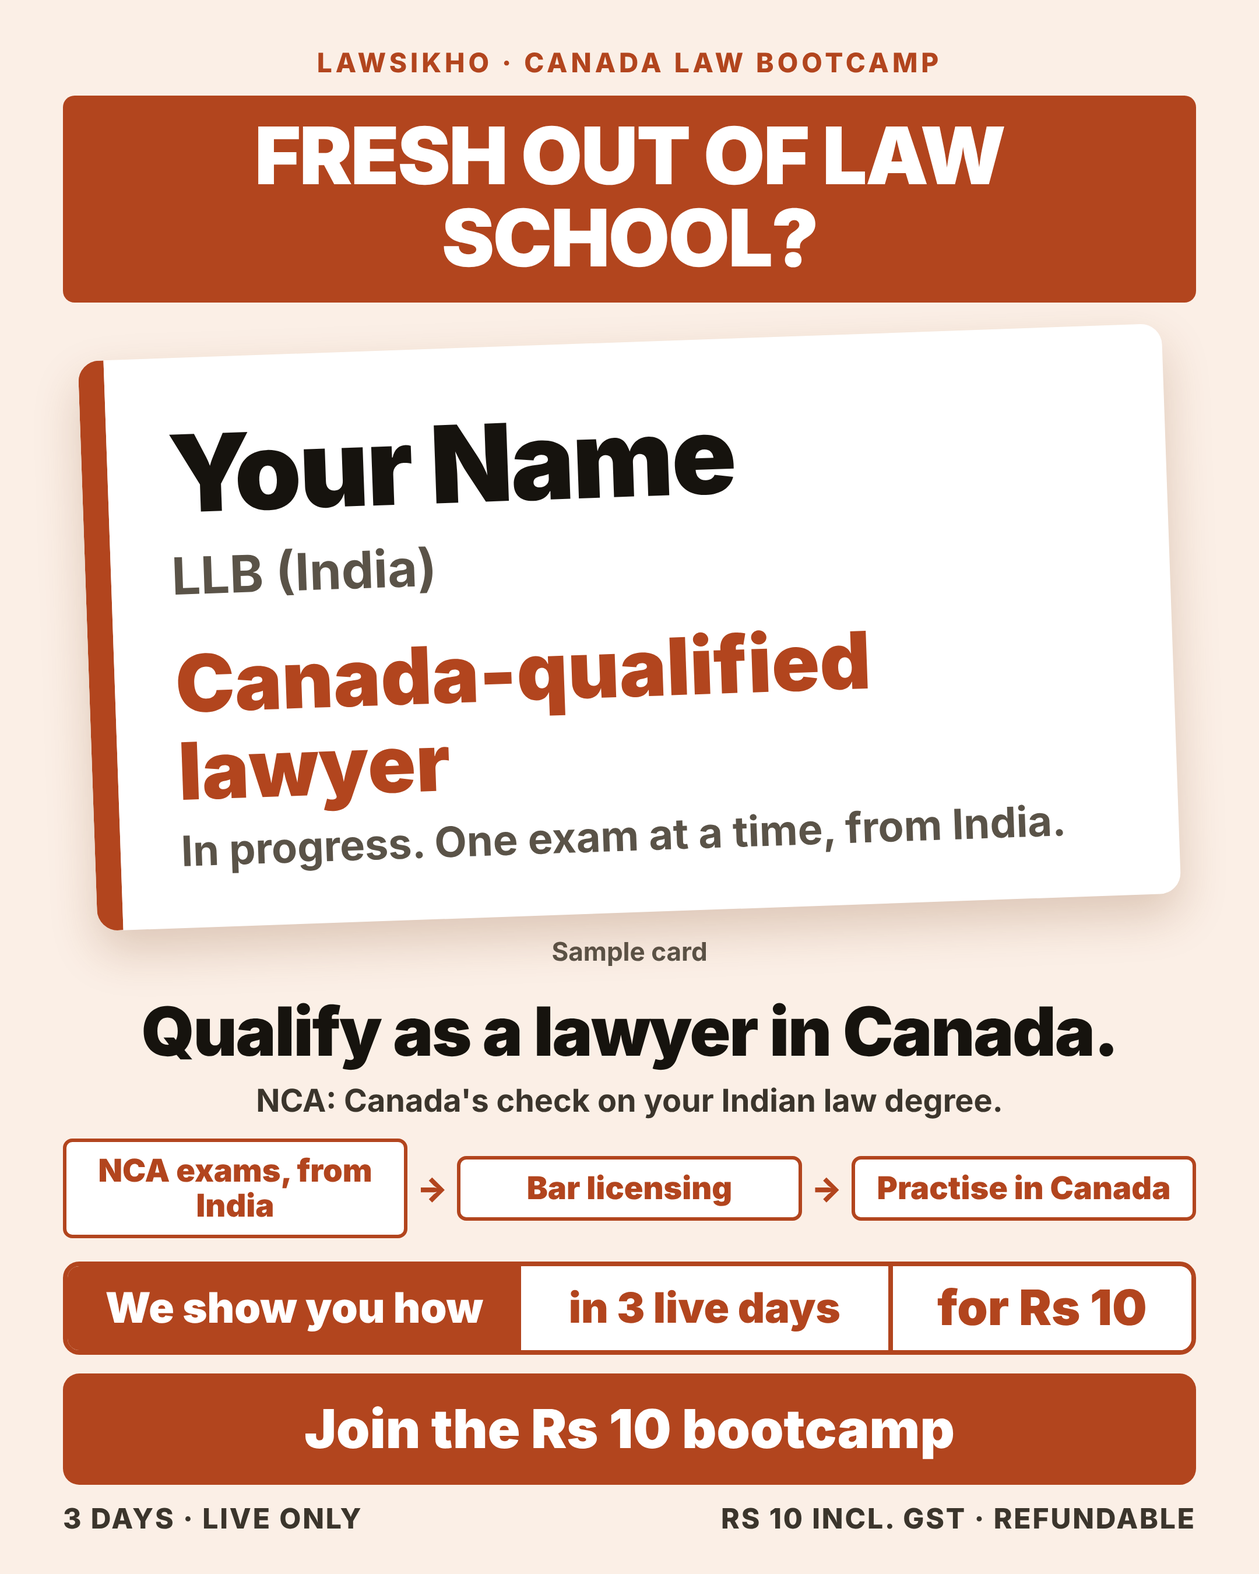
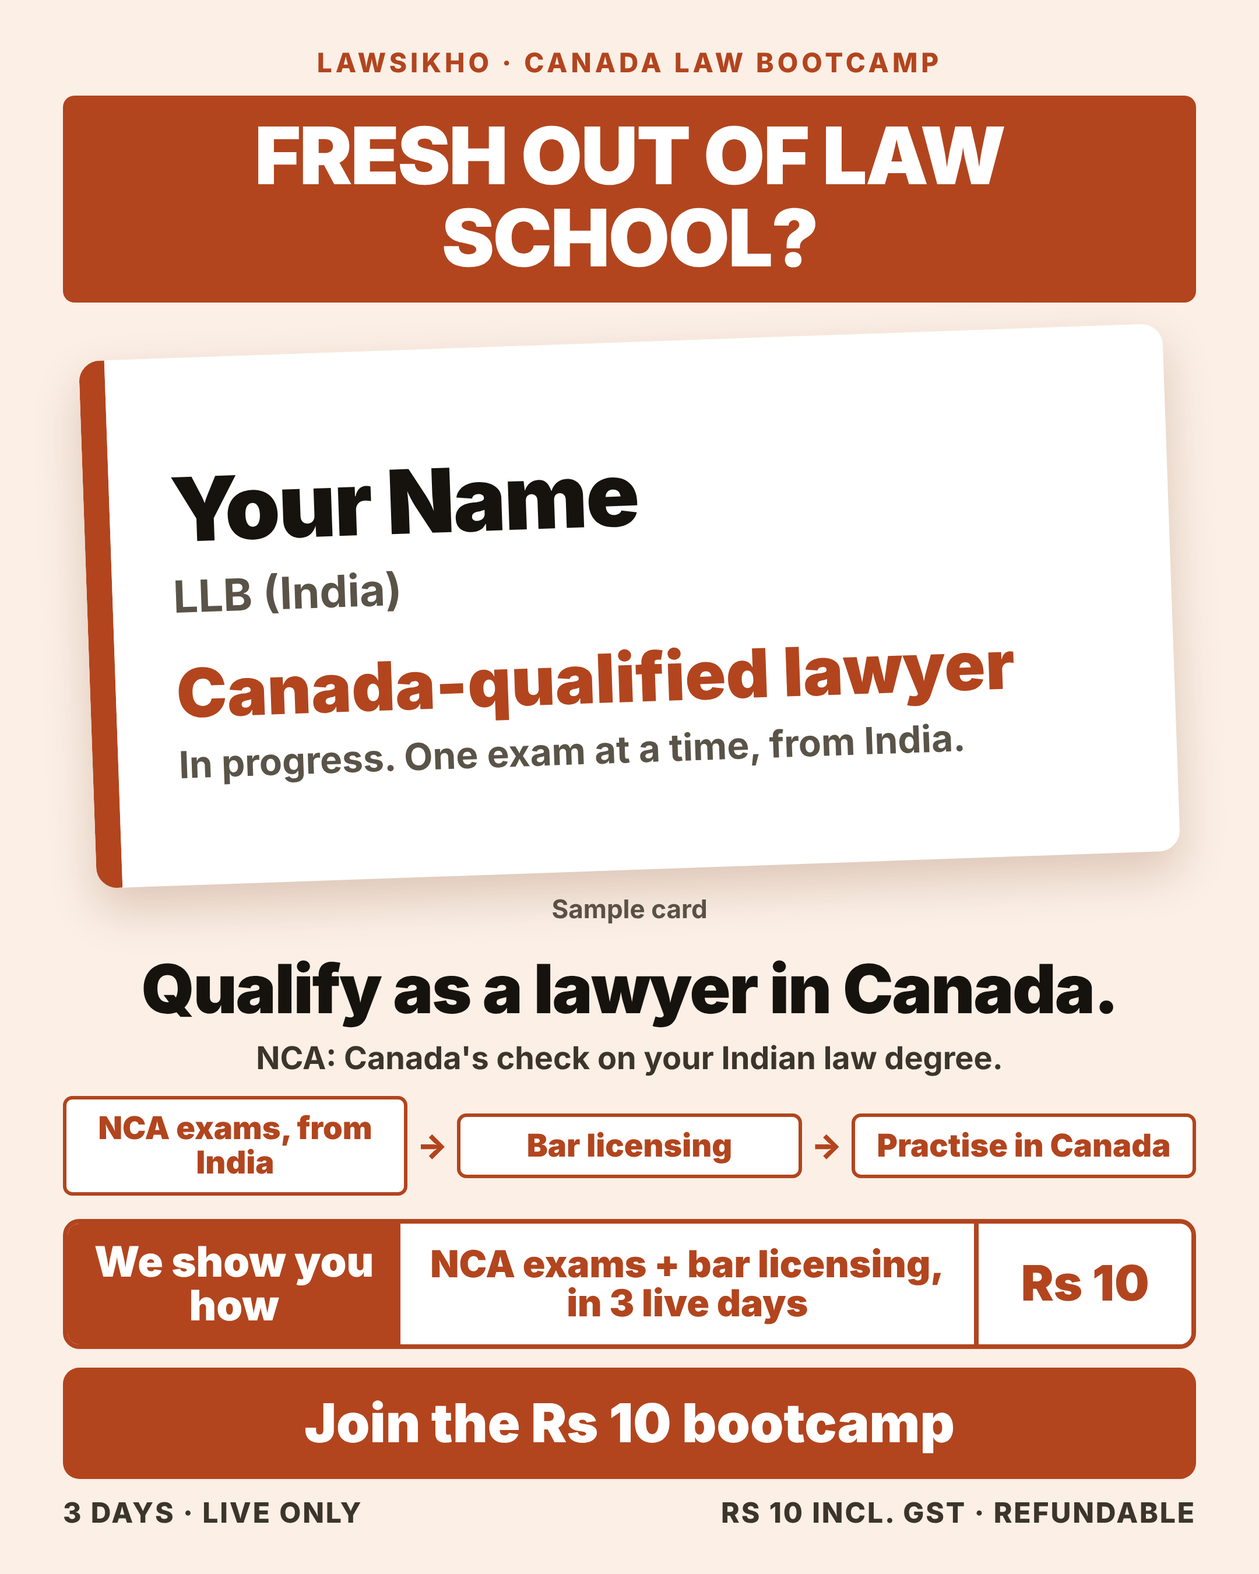
Make bar licensing explicit on every concept face (route chips and how-band)
Claude-Session: https://claude.ai/code/session_014GwCGjjynk2ro1PwVfGZP6

Changed region(s): [[0.031, 0.2489, 0.9616, 0.9956]]

diff --git a/creatives/NCA_Concepts_31Oct-2Nov/html/nca_c_08_calendar_associates.html b/creatives/NCA_Concepts_31Oct-2Nov/html/nca_c_08_calendar_associates.html
@@ -13,14 +13,14 @@ body{font-family:Inter,'Noto Color Emoji',sans-serif;background:#F4EEFA;color:#1
 .foot{display:flex;justify-content:space-between;margin-top:14px;font-size:24px;font-weight:800;letter-spacing:.06em;text-transform:uppercase;color:#3B352C}
 .how{flex:none;display:flex;align-items:stretch;margin-top:20px;border:4px solid #5B2C83;border-radius:14px;overflow:hidden;font-weight:900;text-align:center}
 .how div{display:flex;align-items:center;justify-content:center;padding:14px 10px;font-size:36px;line-height:1.05}
-.hw{flex:1.25;background:#5B2C83;color:#fff}.h3{flex:1;background:#fff;color:#5B2C83}.h10{flex:.8;background:#fff;color:#5B2C83;border-left:4px solid #5B2C83;font-size:42px!important}
+.hw{flex:.9;background:#5B2C83;color:#fff}.h3{flex:1.6;font-size:32px!important;background:#fff;color:#5B2C83}.h10{flex:.55;background:#fff;color:#5B2C83;border-left:4px solid #5B2C83;font-size:42px!important}
 .lbl{font-size:22px;font-weight:700;color:#5A5348;text-align:center;margin-top:10px}
-.cal{margin-top:24px;flex:1;grid-auto-rows:1fr;background:#fff;border:3px solid #5B2C83;border-radius:16px;padding:22px;display:grid;grid-template-columns:repeat(4,1fr);gap:14px}
-.m{border:2px solid #CFC3DD;border-radius:12px;display:flex;flex-direction:column;align-items:center;justify-content:center;text-align:center;font-size:52px;font-weight:800;color:#4A3B5C}
-.m.on{background:#5B2C83;color:#fff;border-color:#5B2C83;font-size:40px;line-height:1.1;padding:8px 4px;box-shadow:0 0 0 6px #fff,0 0 0 10px #5B2C83}
+.cal{margin-top:24px;flex:1;min-height:0;grid-auto-rows:1fr;background:#fff;border:3px solid #5B2C83;border-radius:16px;padding:22px;display:grid;grid-template-columns:repeat(4,1fr);gap:14px}
+.m{border:2px solid #CFC3DD;border-radius:12px;display:flex;flex-direction:column;align-items:center;justify-content:center;text-align:center;font-size:44px;font-weight:800;color:#4A3B5C}
+.m.on{background:#5B2C83;color:#fff;border-color:#5B2C83;font-size:32px;line-height:1.05;padding:6px 4px;box-shadow:0 0 0 6px #fff,0 0 0 10px #5B2C83}
 .sm{font-size:22px;font-weight:700;display:block;margin-top:4px}</style></head><body><div class="rail">LawSikho · Canada law bootcamp</div><div class="callout">Law firm associates?</div>
 <div class="cal"><div class="m">Jan</div><div class="m">Feb</div><div class="m on">Your exam month<span class="sm">Mar</span></div><div class="m">Apr</div><div class="m">May</div><div class="m">Jun</div><div class="m">Jul</div><div class="m">Aug</div><div class="m">Sep</div><div class="m">Oct</div><div class="m">Nov</div><div class="m">Dec</div></div>
 <div class="lbl">Sample calendar</div>
-<div class="head">Pick the month. Qualify in Canada.</div><div class="gloss">The exams are online, from India. Choose them around your billable hours.</div><div class="gloss">NCA: Canada's check on your Indian law degree.</div><div class="how"><div class="hw">We show you how</div><div class="h3">in 3 live days</div><div class="h10">for Rs 10</div></div>
+<div class="head">Pick the month. Qualify in Canada.</div><div class="gloss">The exams are online, from India. Choose them around your billable hours.</div><div class="gloss">NCA: Canada's check on your Indian law degree.</div><div class="chips"><div class="s">NCA exams, from India</div><div class="a">&#8594;</div><div class="s">Bar licensing</div><div class="a">&#8594;</div><div class="s">Practise in Canada</div></div><div class="how"><div class="hw">We show you how</div><div class="h3">NCA exams + bar licensing, in 3 live days</div><div class="h10">Rs 10</div></div>
 <div class="bigbtn">Join the Rs 10 bootcamp</div>
 <div class="foot"><div>3 days · Live only</div><div>Rs 10 incl. GST · Refundable</div></div></body></html>

diff --git a/creatives/NCA_Concepts_31Oct-2Nov/html/nca_c_04_card_fresh_grads.html b/creatives/NCA_Concepts_31Oct-2Nov/html/nca_c_04_card_fresh_grads.html
@@ -13,16 +13,16 @@ body{font-family:Inter,'Noto Color Emoji',sans-serif;background:#FBEFE6;color:#1
 .foot{display:flex;justify-content:space-between;margin-top:14px;font-size:24px;font-weight:800;letter-spacing:.06em;text-transform:uppercase;color:#3B352C}
 .how{flex:none;display:flex;align-items:stretch;margin-top:20px;border:4px solid #B2451E;border-radius:14px;overflow:hidden;font-weight:900;text-align:center}
 .how div{display:flex;align-items:center;justify-content:center;padding:14px 10px;font-size:36px;line-height:1.05}
-.hw{flex:1.25;background:#B2451E;color:#fff}.h3{flex:1;background:#fff;color:#B2451E}.h10{flex:.8;background:#fff;color:#B2451E;border-left:4px solid #B2451E;font-size:42px!important}
+.hw{flex:.9;background:#B2451E;color:#fff}.h3{flex:1.6;font-size:32px!important;background:#fff;color:#B2451E}.h10{flex:.55;background:#fff;color:#B2451E;border-left:4px solid #B2451E;font-size:42px!important}
 .lbl{font-size:22px;font-weight:700;color:#5A5348;text-align:center;margin-top:10px}
-.card{margin:34px auto 0;width:930px;flex:1;margin-bottom:10px;background:#fff;border-radius:18px;box-shadow:0 18px 40px rgba(120,60,20,.22);border-left:22px solid #B2451E;padding:44px 52px;display:flex;flex-direction:column;justify-content:center;transform:rotate(-2deg)}
-.n{font-size:92px;font-weight:900;letter-spacing:-.02em}
-.d{font-size:44px;font-weight:700;color:#5A5348;margin-top:6px}
-.q{font-size:68px;font-weight:900;color:#B2451E;line-height:1.1;margin-top:28px}
-.ip{font-size:36px;font-weight:700;color:#5A5348;margin-top:10px}</style></head><body><div class="rail">LawSikho · Canada law bootcamp</div><div class="callout">Fresh out of law school?</div>
+.card{margin:34px auto 0;width:930px;flex:1;min-height:0;margin-bottom:10px;background:#fff;border-radius:18px;box-shadow:0 18px 40px rgba(120,60,20,.22);border-left:22px solid #B2451E;padding:44px 52px;display:flex;flex-direction:column;justify-content:center;transform:rotate(-2deg)}
+.n{font-size:76px;font-weight:900;letter-spacing:-.02em}
+.d{font-size:38px;font-weight:700;color:#5A5348;margin-top:6px}
+.q{font-size:58px;font-weight:900;color:#B2451E;line-height:1.1;margin-top:28px}
+.ip{font-size:32px;font-weight:700;color:#5A5348;margin-top:10px}</style></head><body><div class="rail">LawSikho · Canada law bootcamp</div><div class="callout">Fresh out of law school?</div>
 <div class="card"><div class="n">Your Name</div><div class="d">LLB (India)</div>
 <div class="q">Canada-qualified lawyer</div><div class="ip">In progress. One exam at a time, from India.</div></div>
 <div class="lbl">Sample card</div>
-<div class="head">Qualify as a lawyer in Canada.</div><div class="gloss">NCA: Canada's check on your Indian law degree.</div><div class="chips"><div class="s">NCA exams, from India</div><div class="a">&#8594;</div><div class="s">Bar licensing</div><div class="a">&#8594;</div><div class="s">Practise in Canada</div></div><div class="how"><div class="hw">We show you how</div><div class="h3">in 3 live days</div><div class="h10">for Rs 10</div></div>
+<div class="head">Qualify as a lawyer in Canada.</div><div class="gloss">NCA: Canada's check on your Indian law degree.</div><div class="chips"><div class="s">NCA exams, from India</div><div class="a">&#8594;</div><div class="s">Bar licensing</div><div class="a">&#8594;</div><div class="s">Practise in Canada</div></div><div class="how"><div class="hw">We show you how</div><div class="h3">NCA exams + bar licensing, in 3 live days</div><div class="h10">Rs 10</div></div>
 <div class="bigbtn">Join the Rs 10 bootcamp</div>
 <div class="foot"><div>3 days · Live only</div><div>Rs 10 incl. GST · Refundable</div></div></body></html>

diff --git a/creatives/NCA_Concepts_31Oct-2Nov/html/nca_c_02_causelist_litigators.html b/creatives/NCA_Concepts_31Oct-2Nov/html/nca_c_02_causelist_litigators.html
@@ -13,7 +13,7 @@ body{font-family:Inter,'Noto Color Emoji',sans-serif;background:#EEF2EA;color:#1
 .foot{display:flex;justify-content:space-between;margin-top:14px;font-size:24px;font-weight:800;letter-spacing:.06em;text-transform:uppercase;color:#3B352C}
 .how{flex:none;display:flex;align-items:stretch;margin-top:20px;border:4px solid #2F5D3A;border-radius:14px;overflow:hidden;font-weight:900;text-align:center}
 .how div{display:flex;align-items:center;justify-content:center;padding:14px 10px;font-size:36px;line-height:1.05}
-.hw{flex:1.25;background:#2F5D3A;color:#fff}.h3{flex:1;background:#fff;color:#2F5D3A}.h10{flex:.8;background:#fff;color:#2F5D3A;border-left:4px solid #2F5D3A;font-size:42px!important}
+.hw{flex:.9;background:#2F5D3A;color:#fff}.h3{flex:1.6;font-size:32px!important;background:#fff;color:#2F5D3A}.h10{flex:.55;background:#fff;color:#2F5D3A;border-left:4px solid #2F5D3A;font-size:42px!important}
 .lbl{font-size:22px;font-weight:700;color:#5A5348;text-align:center;margin-top:10px}
 .paper{margin-top:22px;flex:1;background:#FFFEF8;border:3px solid #2A2A20;padding:30px 30px;display:flex;flex-direction:column;font-family:'Bitstream Charter',Caladea,serif}
 .ttl{text-align:center;font-size:36px;font-weight:700;letter-spacing:.08em;border-bottom:2px solid #2A2A20;padding-bottom:10px}
@@ -28,6 +28,6 @@ tr.hi td{background:#2F5D3A;color:#fff;font-weight:700;font-size:40px}</style></
 <tr><td>13</td><td>Written statement</td><td>Listed</td></tr>
 <tr class="hi"><td>14</td><td>Canada qualification</td><td>Pick your exam month</td></tr>
 <tr><td>15</td><td>Final arguments</td><td>Listed</td></tr></table></div>
-<div class="head">Add Canada to your cause list.</div><div class="gloss">NCA: Canada's check on your Indian law degree.</div><div class="chips"><div class="s">NCA exams, from India</div><div class="a">&#8594;</div><div class="s">Bar licensing</div><div class="a">&#8594;</div><div class="s">Practise in Canada</div></div><div class="how"><div class="hw">We show you how</div><div class="h3">in 3 live days</div><div class="h10">for Rs 10</div></div>
+<div class="head">Add Canada to your cause list.</div><div class="gloss">NCA: Canada's check on your Indian law degree.</div><div class="chips"><div class="s">NCA exams, from India</div><div class="a">&#8594;</div><div class="s">Bar licensing</div><div class="a">&#8594;</div><div class="s">Practise in Canada</div></div><div class="how"><div class="hw">We show you how</div><div class="h3">NCA exams + bar licensing, in 3 live days</div><div class="h10">Rs 10</div></div>
 <div class="bigbtn">Join the Rs 10 bootcamp</div>
 <div class="foot"><div>3 days · Live only</div><div>Rs 10 incl. GST · Refundable</div></div></body></html>

diff --git a/creatives/NCA_Concepts_31Oct-2Nov/html/nca_c_01_chat_advocates.html b/creatives/NCA_Concepts_31Oct-2Nov/html/nca_c_01_chat_advocates.html
@@ -13,7 +13,7 @@ body{font-family:Inter,'Noto Color Emoji',sans-serif;background:#F1ECE4;color:#1
 .foot{display:flex;justify-content:space-between;margin-top:14px;font-size:24px;font-weight:800;letter-spacing:.06em;text-transform:uppercase;color:#3B352C}
 .how{flex:none;display:flex;align-items:stretch;margin-top:20px;border:4px solid #1D3A6B;border-radius:14px;overflow:hidden;font-weight:900;text-align:center}
 .how div{display:flex;align-items:center;justify-content:center;padding:14px 10px;font-size:36px;line-height:1.05}
-.hw{flex:1.25;background:#1D3A6B;color:#fff}.h3{flex:1;background:#fff;color:#1D3A6B}.h10{flex:.8;background:#fff;color:#1D3A6B;border-left:4px solid #1D3A6B;font-size:42px!important}
+.hw{flex:.9;background:#1D3A6B;color:#fff}.h3{flex:1.6;font-size:32px!important;background:#fff;color:#1D3A6B}.h10{flex:.55;background:#fff;color:#1D3A6B;border-left:4px solid #1D3A6B;font-size:42px!important}
 .lbl{font-size:22px;font-weight:700;color:#5A5348;text-align:center;margin-top:10px}
 .phone{flex:none;margin-top:18px;border-radius:22px;overflow:hidden;box-shadow:0 14px 34px rgba(0,0,0,.16)}
 .top{background:#075E54;color:#fff;display:flex;align-items:center;gap:18px;padding:12px 24px}
@@ -32,6 +32,6 @@ body{font-family:Inter,'Noto Color Emoji',sans-serif;background:#F1ECE4;color:#1
 <div class="b me">Stays open. You study around your cause list.<span class="t">9:43 PM ✓✓</span></div>
 </div></div>
 <div class="lbl">Dramatised chat. Not a real learner.</div>
-<div class="head">Practise law in Canada too.</div><div class="gloss">NCA: Canada's check on your Indian law degree.</div><div class="chips"><div class="s">NCA exams, from India</div><div class="a">&#8594;</div><div class="s">Bar licensing</div><div class="a">&#8594;</div><div class="s">Practise in Canada</div></div><div class="grow"></div><div class="how"><div class="hw">We show you how</div><div class="h3">in 3 live days</div><div class="h10">for Rs 10</div></div>
+<div class="head">Practise law in Canada too.</div><div class="gloss">NCA: Canada's check on your Indian law degree.</div><div class="chips"><div class="s">NCA exams, from India</div><div class="a">&#8594;</div><div class="s">Bar licensing</div><div class="a">&#8594;</div><div class="s">Practise in Canada</div></div><div class="grow"></div><div class="how"><div class="hw">We show you how</div><div class="h3">NCA exams + bar licensing, in 3 live days</div><div class="h10">Rs 10</div></div>
 <div class="bigbtn">Join the Rs 10 bootcamp</div>
 <div class="foot"><div>3 days · Live only</div><div>Rs 10 incl. GST · Refundable</div></div></body></html>

diff --git a/creatives/NCA_Concepts_31Oct-2Nov/html/nca_c_06_route_movers.html b/creatives/NCA_Concepts_31Oct-2Nov/html/nca_c_06_route_movers.html
@@ -13,7 +13,7 @@ body{font-family:Inter,'Noto Color Emoji',sans-serif;background:#EAF1F6;color:#1
 .foot{display:flex;justify-content:space-between;margin-top:14px;font-size:24px;font-weight:800;letter-spacing:.06em;text-transform:uppercase;color:#3B352C}
 .how{flex:none;display:flex;align-items:stretch;margin-top:20px;border:4px solid #1F5C7A;border-radius:14px;overflow:hidden;font-weight:900;text-align:center}
 .how div{display:flex;align-items:center;justify-content:center;padding:14px 10px;font-size:36px;line-height:1.05}
-.hw{flex:1.25;background:#1F5C7A;color:#fff}.h3{flex:1;background:#fff;color:#1F5C7A}.h10{flex:.8;background:#fff;color:#1F5C7A;border-left:4px solid #1F5C7A;font-size:42px!important}
+.hw{flex:.9;background:#1F5C7A;color:#fff}.h3{flex:1.6;font-size:32px!important;background:#fff;color:#1F5C7A}.h10{flex:.55;background:#fff;color:#1F5C7A;border-left:4px solid #1F5C7A;font-size:42px!important}
 .lbl{font-size:22px;font-weight:700;color:#5A5348;text-align:center;margin-top:10px}
 .map{margin-top:26px;flex:1;display:flex;flex-direction:column;gap:0;position:relative}
 .st{flex:1;display:flex;align-items:center;gap:30px;background:#fff;border:3px solid #1F5C7A;border-radius:16px;padding:20px 30px}
@@ -25,6 +25,6 @@ body{font-family:Inter,'Noto Color Emoji',sans-serif;background:#EAF1F6;color:#1
 <div class="st"><div class="no">1</div><div><div class="tt">NCA exams</div><div class="ss">Written online, from India, before you move</div></div></div><div class="ln"></div>
 <div class="st"><div class="no">2</div><div><div class="tt">Bar licensing</div><div class="ss">Province by province</div></div></div><div class="ln"></div>
 <div class="st"><div class="no">3</div><div><div class="tt">Practise in Canada</div><div class="ss">With a Canadian qualification</div></div></div></div>
-<div class="head">Start Canada's exams from India.</div><div class="gloss">NCA: Canada's check on your Indian law degree.</div><div class="how"><div class="hw">We show you how</div><div class="h3">in 3 live days</div><div class="h10">for Rs 10</div></div>
+<div class="head">Start Canada's exams from India.</div><div class="gloss">NCA: Canada's check on your Indian law degree.</div><div class="how"><div class="hw">We show you how</div><div class="h3">NCA exams + bar licensing, in 3 live days</div><div class="h10">Rs 10</div></div>
 <div class="bigbtn">Join the Rs 10 bootcamp</div>
 <div class="foot"><div>3 days · Live only</div><div>Rs 10 incl. GST · Refundable</div></div></body></html>

diff --git a/creatives/NCA_Concepts_31Oct-2Nov/build.py b/creatives/NCA_Concepts_31Oct-2Nov/build.py
@@ -16,10 +16,10 @@ body{font-family:Inter,'Noto Color Emoji',sans-serif;background:%(bg)s;color:#16
 .foot{display:flex;justify-content:space-between;margin-top:14px;font-size:24px;font-weight:800;letter-spacing:.06em;text-transform:uppercase;color:#3B352C}
 .how{flex:none;display:flex;align-items:stretch;margin-top:20px;border:4px solid %(ac)s;border-radius:14px;overflow:hidden;font-weight:900;text-align:center}
 .how div{display:flex;align-items:center;justify-content:center;padding:14px 10px;font-size:36px;line-height:1.05}
-.hw{flex:1.25;background:%(ac)s;color:#fff}.h3{flex:1;background:#fff;color:%(ac)s}.h10{flex:.8;background:#fff;color:%(ac)s;border-left:4px solid %(ac)s;font-size:42px!important}
+.hw{flex:.9;background:%(ac)s;color:#fff}.h3{flex:1.6;font-size:32px!important;background:#fff;color:%(ac)s}.h10{flex:.55;background:#fff;color:%(ac)s;border-left:4px solid %(ac)s;font-size:42px!important}
 .lbl{font-size:22px;font-weight:700;color:#5A5348;text-align:center;margin-top:10px}
 """
-FOOT = """<div class="how"><div class="hw">We show you how</div><div class="h3">in 3 live days</div><div class="h10">for Rs 10</div></div>
+FOOT = """<div class="how"><div class="hw">We show you how</div><div class="h3">NCA exams + bar licensing, in 3 live days</div><div class="h10">Rs 10</div></div>
 <div class="bigbtn">Join the Rs 10 bootcamp</div>
 <div class="foot"><div>3 days · Live only</div><div>Rs 10 incl. GST · Refundable</div></div>"""
 RAIL = '<div class="rail">LawSikho · Canada law bootcamp</div>'
@@ -72,11 +72,11 @@ tr.hi td{background:%(ac)s;color:#fff;font-weight:700;font-size:40px}"""
 
 def card():  # 4 fresh graduates
     pal = dict(bg="#FBEFE6", ac="#B2451E")
-    css = """.card{margin:34px auto 0;width:930px;flex:1;margin-bottom:10px;background:#fff;border-radius:18px;box-shadow:0 18px 40px rgba(120,60,20,.22);border-left:22px solid %(ac)s;padding:44px 52px;display:flex;flex-direction:column;justify-content:center;transform:rotate(-2deg)}
-.n{font-size:92px;font-weight:900;letter-spacing:-.02em}
-.d{font-size:44px;font-weight:700;color:#5A5348;margin-top:6px}
-.q{font-size:68px;font-weight:900;color:%(ac)s;line-height:1.1;margin-top:28px}
-.ip{font-size:36px;font-weight:700;color:#5A5348;margin-top:10px}"""
+    css = """.card{margin:34px auto 0;width:930px;flex:1;min-height:0;margin-bottom:10px;background:#fff;border-radius:18px;box-shadow:0 18px 40px rgba(120,60,20,.22);border-left:22px solid %(ac)s;padding:44px 52px;display:flex;flex-direction:column;justify-content:center;transform:rotate(-2deg)}
+.n{font-size:76px;font-weight:900;letter-spacing:-.02em}
+.d{font-size:38px;font-weight:700;color:#5A5348;margin-top:6px}
+.q{font-size:58px;font-weight:900;color:%(ac)s;line-height:1.1;margin-top:28px}
+.ip{font-size:32px;font-weight:700;color:#5A5348;margin-top:10px}"""
     body = RAIL + """<div class="callout">Fresh out of law school?</div>
 <div class="card"><div class="n">Your Name</div><div class="d">LLB (India)</div>
 <div class="q">Canada-qualified lawyer</div><div class="ip">In progress. One exam at a time, from India.</div></div>
@@ -102,16 +102,16 @@ def route():  # 6 planning to move
 
 def calendar():  # 8 associates
     pal = dict(bg="#F4EEFA", ac="#5B2C83")
-    css = """.cal{margin-top:24px;flex:1;grid-auto-rows:1fr;background:#fff;border:3px solid %(ac)s;border-radius:16px;padding:22px;display:grid;grid-template-columns:repeat(4,1fr);gap:14px}
-.m{border:2px solid #CFC3DD;border-radius:12px;display:flex;flex-direction:column;align-items:center;justify-content:center;text-align:center;font-size:52px;font-weight:800;color:#4A3B5C}
-.m.on{background:%(ac)s;color:#fff;border-color:%(ac)s;font-size:40px;line-height:1.1;padding:8px 4px;box-shadow:0 0 0 6px #fff,0 0 0 10px %(ac)s}
+    css = """.cal{margin-top:24px;flex:1;min-height:0;grid-auto-rows:1fr;background:#fff;border:3px solid %(ac)s;border-radius:16px;padding:22px;display:grid;grid-template-columns:repeat(4,1fr);gap:14px}
+.m{border:2px solid #CFC3DD;border-radius:12px;display:flex;flex-direction:column;align-items:center;justify-content:center;text-align:center;font-size:44px;font-weight:800;color:#4A3B5C}
+.m.on{background:%(ac)s;color:#fff;border-color:%(ac)s;font-size:32px;line-height:1.05;padding:6px 4px;box-shadow:0 0 0 6px #fff,0 0 0 10px %(ac)s}
 .sm{font-size:22px;font-weight:700;display:block;margin-top:4px}"""
     months = ["Jan","Feb","Mar","Apr","May","Jun","Jul","Aug","Sep","Oct","Nov","Dec"]
     cells = "".join('<div class="m on">Your exam month<span class="sm">%s</span></div>' % m if m=="Mar" else '<div class="m">%s</div>' % m for m in months)
     body = RAIL + """<div class="callout">Law firm associates?</div>
 <div class="cal">""" + cells + """</div>
 <div class="lbl">Sample calendar</div>
-<div class="head">Pick the month. Qualify in Canada.</div><div class="gloss">The exams are online, from India. Choose them around your billable hours.</div>""" + GLOSS.replace('margin-top:12px','')  + FOOT
+<div class="head">Pick the month. Qualify in Canada.</div><div class="gloss">The exams are online, from India. Choose them around your billable hours.</div>""" + GLOSS.replace('margin-top:12px','') + CHIPS + FOOT
     return page(css, body, pal)
 
 for stem, fn in [("nca_c_01_chat_advocates", chat), ("nca_c_02_causelist_litigators", causelist), ("nca_c_04_card_fresh_grads", card),

diff --git a/creatives/NCA_Concepts_31Oct-2Nov/ad_copy.md b/creatives/NCA_Concepts_31Oct-2Nov/ad_copy.md
@@ -13,3 +13,7 @@ Gloss on all: "NCA: Canada's check on your Indian law degree." Route chips: NCA 
 
 Open: claims "exams online, from India, every month" and "study around your cause list" need a check against the 2026 script.
 No kit gates or blind readers run yet. Pay link not wired. Ramanuj has not approved.
+
+## Rule added 7 Oct 2026 (Ruchika): bar is non negotiable
+Every face shows bar licensing twice: in the route chips (NCA exams, from India > Bar licensing > Practise in Canada, or the route map on face 6) and in the band "We show you how | NCA exams + bar licensing, in 3 live days | Rs 10".
+Never "the only route", never "bar exam scrapped".
